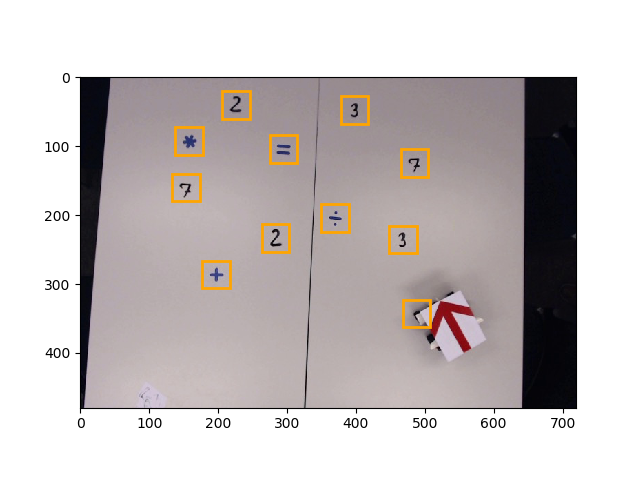
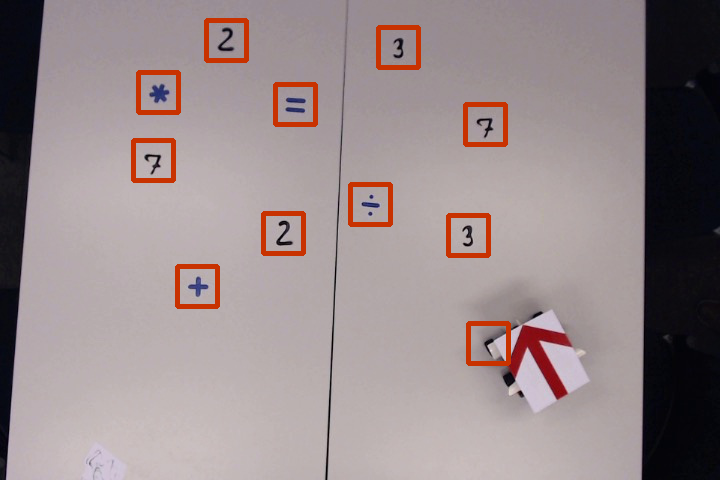
Minor changes to box drawing
-symbol images are downsampled to 28x28
-minor name changes to variables
-switched to using cv2 for drawing boxes

diff --git a/extract_objects.py b/extract_objects.py
@@ -1,8 +1,10 @@
 import numpy as np
 import skimage
 import matplotlib.pyplot as plt
+import data_augmentation 
 from skimage.measure import label, regionprops
 import matplotlib.patches as mpatches
+import cv2 as cv
 from skimage.morphology import closing, square
 from skimage.segmentation import clear_border
 
@@ -16,9 +18,9 @@ def label_image(image):
     
     output = enhance_contrast(image)
     gray_im = skimage.color.rgb2gray(output)
-    gray_im  = gray_im  < skimage.filters.threshold_otsu(gray_im )
+    thresholded  = gray_im  < skimage.filters.threshold_otsu(gray_im )
     
-    mask = closing(gray_im , square(10) )
+    mask = closing(thresholded , square(10) )
          
     cleared = clear_border(mask)
     
@@ -33,7 +35,10 @@ def label_image(image):
             cx, cy = int(cx),int(cy)
             #minx, miny, maxx, maxy
             boxes.append([cx,cy])
-            symbols.append( output[max(cx-20,0):min(cx+20,image.shape[0]), max(cy-20,0):min(cy+20,image.shape[1])])
+            new_symbol = gray_im[max(cx-20,0):min(cx+20,gray_im.shape[0]), max(cy-20,0):min(cy+20,gray_im.shape[1])]
+            
+            symbols.append( data_augmentation.rescale_down_sample(new_symbol,28,28) )
+            
     
     print("Shapes properties: [minx, miny, maxx, maxy] \n", boxes)
     print("Count Objects: ", len(boxes))
@@ -42,21 +47,18 @@ def label_image(image):
 
 #-----------------------------------------------------
 #displays image with equally sized bounding boxes given box centroids and the image
-def display_labeled_image(image,boxes,index):
+def create_labeled_image(image,boxes,index):
     
-    
-    plt.imshow(image)
-    ax = plt.gca()
-    
+#    
     for box in boxes:
         cx,cy = box[0],box[1]
-        rect = mpatches.Rectangle((max(cy-20,0), max(cx-20,0)), min(cx+20,image.shape[0]) - max(cx-20,0), min(cy+20,image.shape[1]) - max(cy-20,0),
-                                      fill=False, edgecolor='orange', linewidth=2)
-        ax.add_patch(rect)
-    path = "labeled_frames/"
-    plt.savefig ( path + "labeled" +str(index)+".png")
-    plt.show()
+        image = cv.rectangle(image, (max(cy-20,0),max(cx-20,0)),
+                                    (min(cy+20,image.shape[1]), min(cx+20,image.shape[0])),           
+                                    (200,50,0), 3)
+        
+    path = "labeled_frames/"+ "labeled" +str(index)+".png"
     
+    cv.imwrite(path, cv.cvtColor(image, cv.COLOR_BGR2RGB) )  
     
     
 """ ADAPTED FROM LAB1 PART2: """
@@ -71,7 +73,6 @@ def enhance_contrast(src, alpha = 1.0, beta = 0):
     output : img with same shape of the input output = alpha * src + beta
     """
     new_img = np.zeros(src.shape, src.dtype)
-    #print(new_img.shape)
     for y in range(src.shape[0]):
         for x in range(src.shape[1]):
             for c in range(src.shape[2]):
@@ -84,7 +85,7 @@ image = skimage.io.imread("robot_parcours_1_frames/frame0.jpg")
 
 boxes, symbols = label_image(image)
 
-display_labeled_image(image,boxes,0)
+create_labeled_image(np.array(image),boxes,0)
 
 fig, ax = plt.subplots(1, len(boxes), figsize=(10, 6))
 for i in range(len(boxes)):
